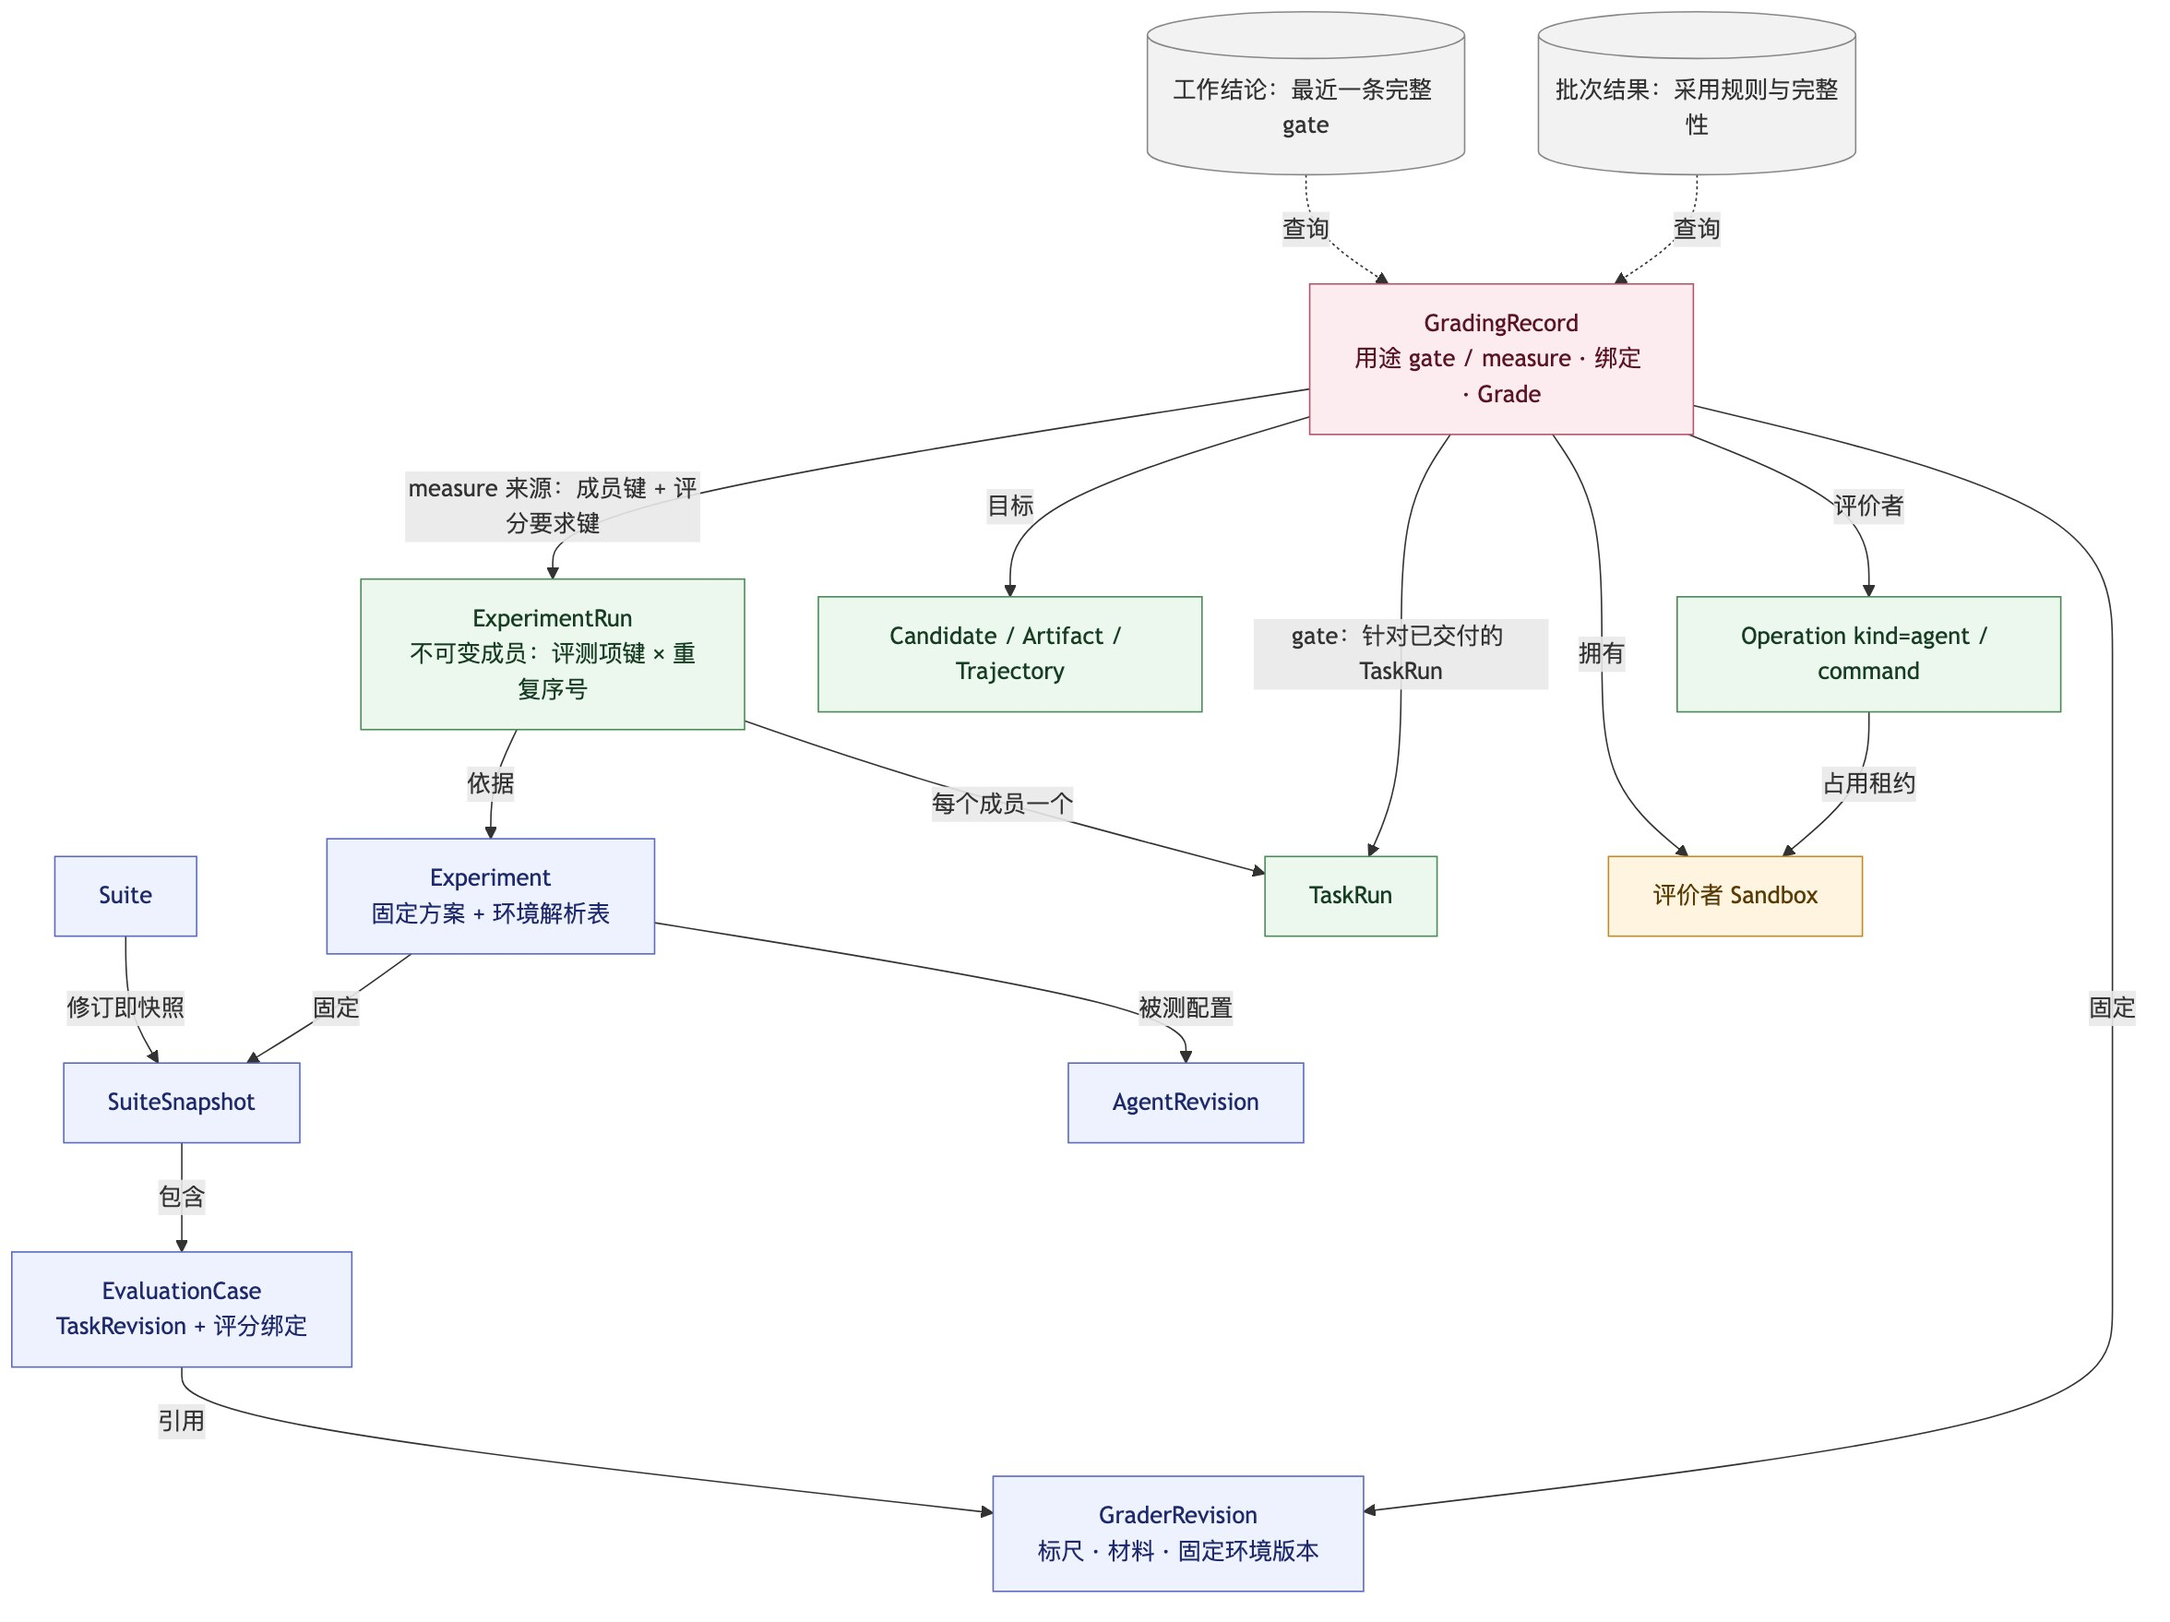
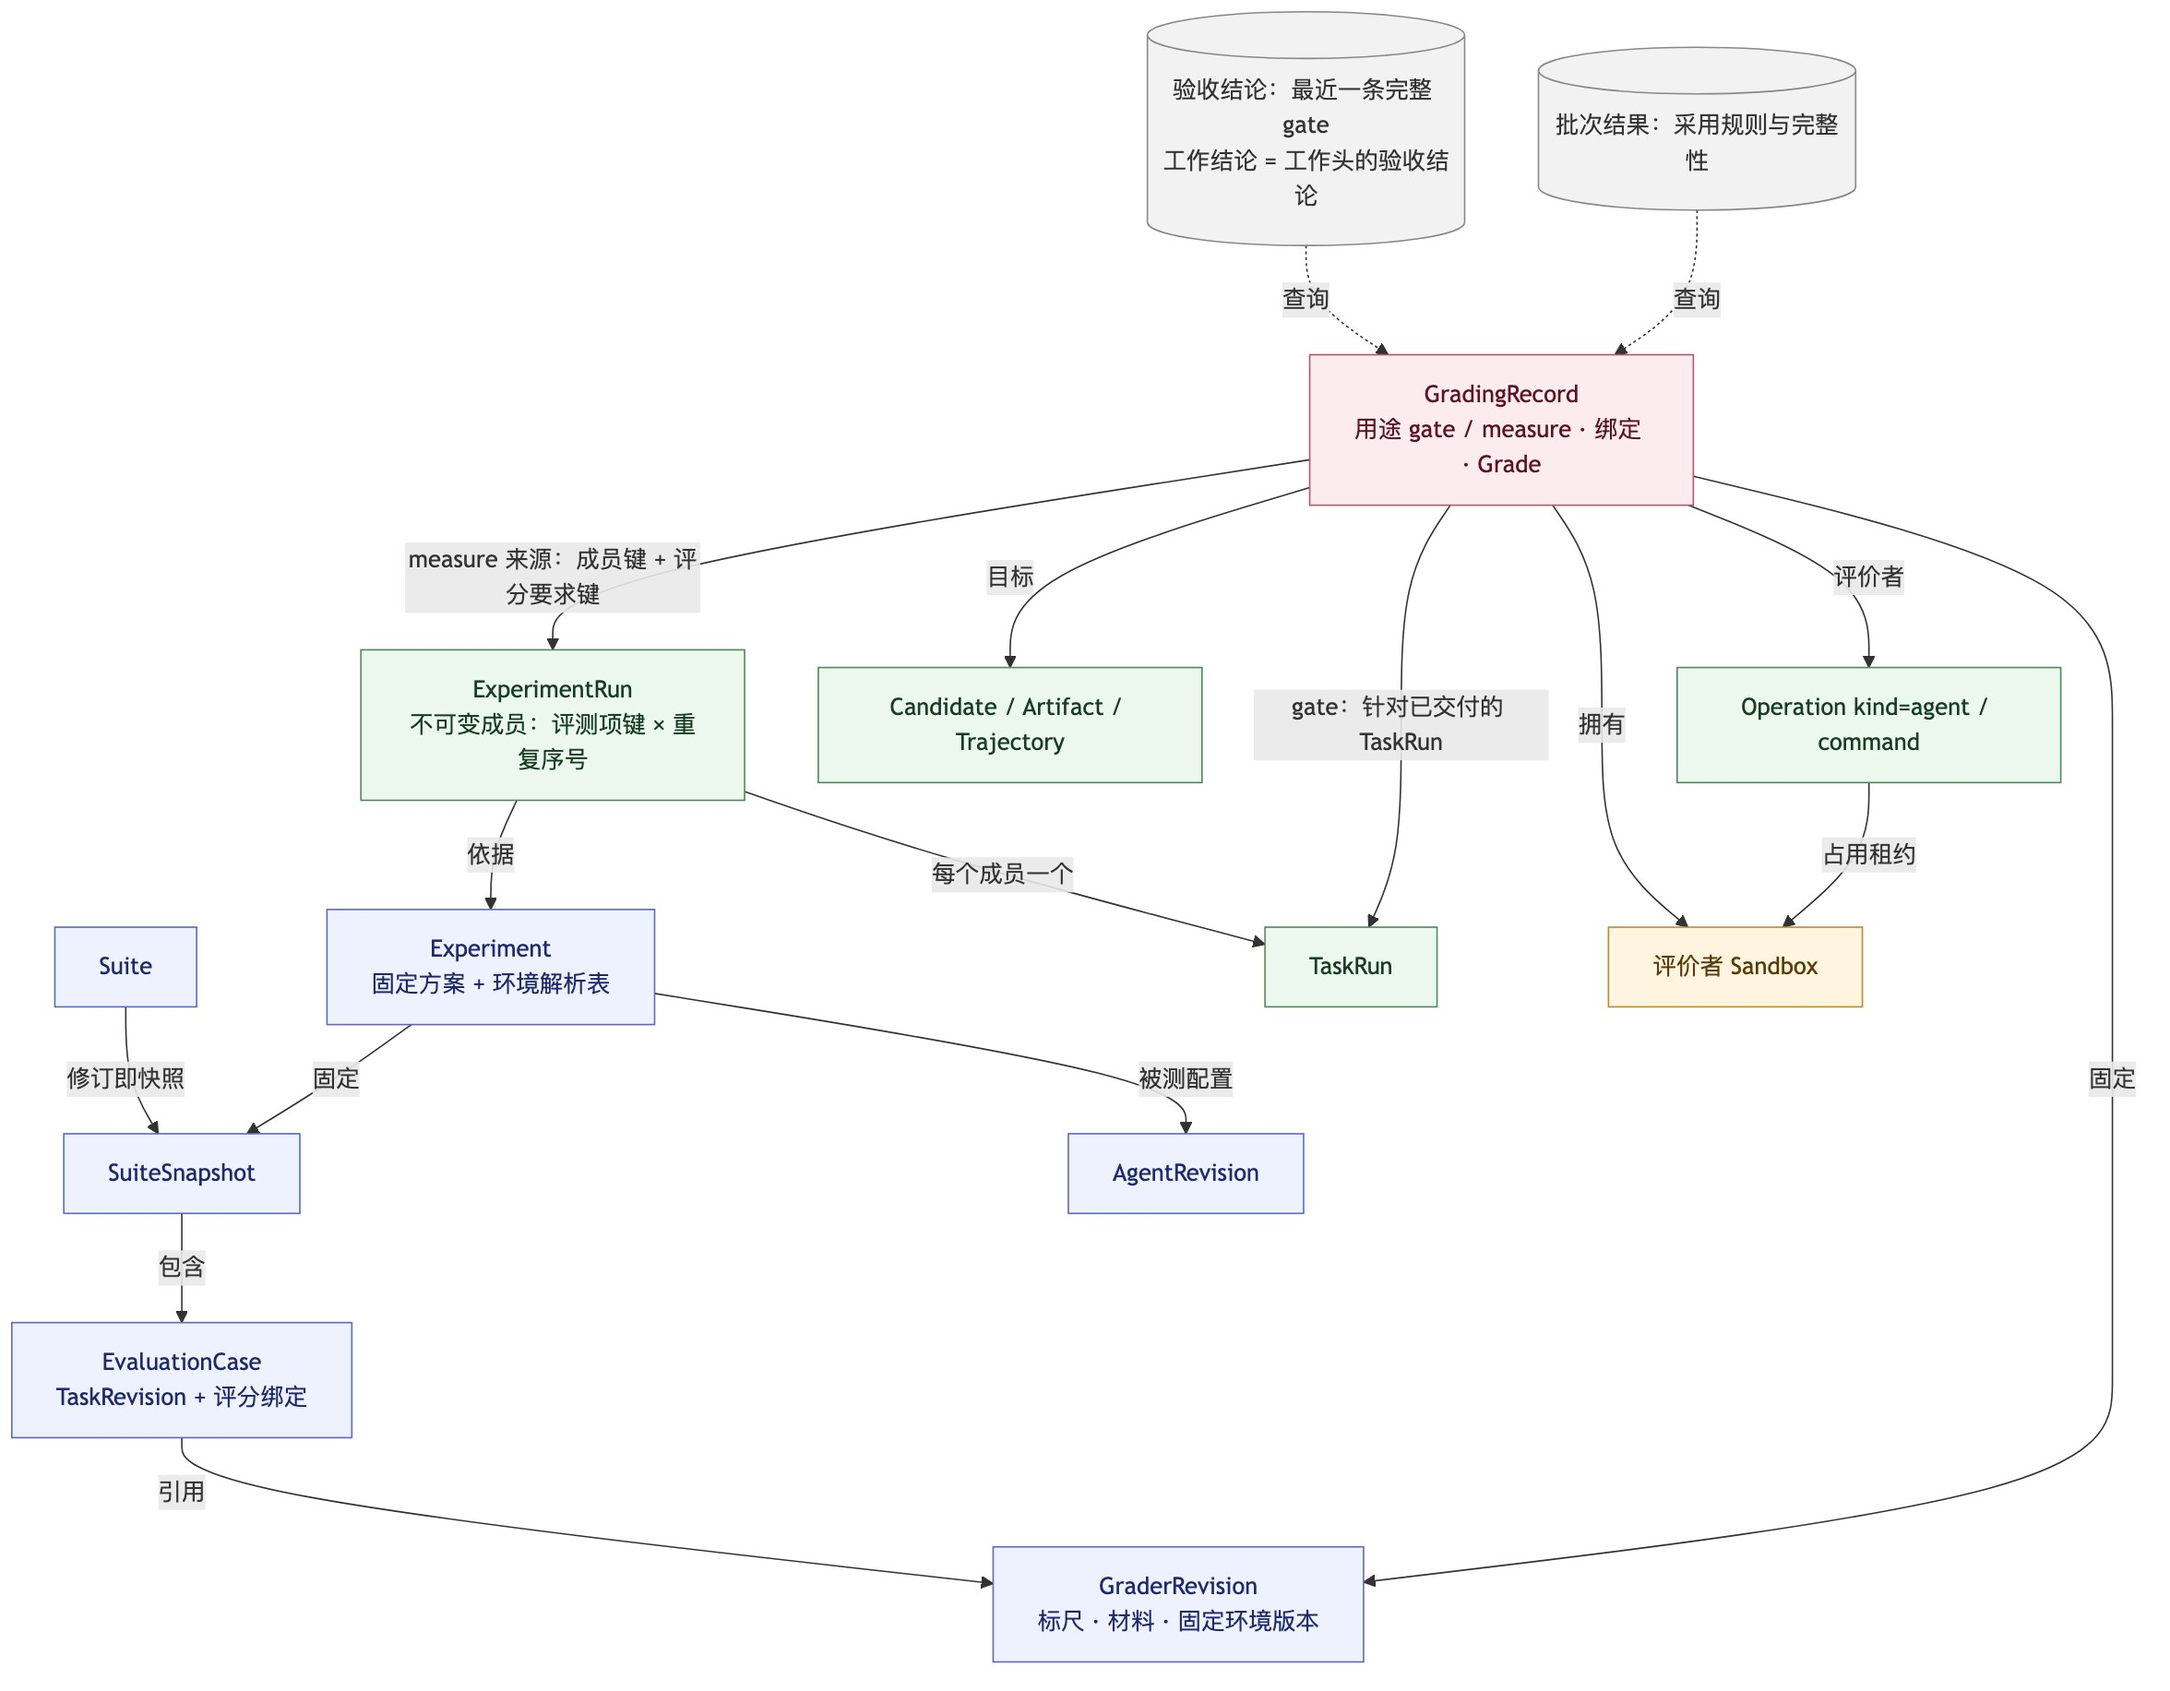
docs: add Work aggregate for the current work head (D142)
Introduce Work as the development line over a refinement tree with an explicit, versioned current head; continuing refines the head and moves it atomically with TaskRun acceptance, heads can be selected explicitly, and the work conclusion is the head's acceptance conclusion.

diff --git a/docs/decisions/0001-unified-agent-evaluation.md b/docs/decisions/0001-unified-agent-evaluation.md
@@ -1,11 +1,11 @@
 # 通用 Agent 评测：开发共识与实施依据
 
-- 日期：2026-10-31；最近更新：2026-11-02（D129–D141 目标模型 R2 已确认）。
+- 日期：2026-10-31；最近更新：2026-11-02（D129–D142 目标模型 R2 已确认）。
 - 决策状态：**已接受总体方向；实现尚未完成**。
 - 范围：Grounds CLI 的评测领域模型、Agent 适配、轨迹与产物、并发，以及评测与开发共用的环境治理领域模型和容器执行。
 - 用途：持续维护的开发依据。后续讨论形成的新结论更新本文件；提议、已确认要求与实际完成情况分别记录。
 
-阅读顺序：**先读[目标模型](0001-target-model.md)**，它是 D129–D141 修订后可以单独阅读的当前目标模型（R2）（已确认，待实现）；第 3 节“D128 历史收敛版”只用于查阅旧迁移表与修订前的关系；后续旧图仅作历史说明。深模块边界仍见第 3 节；当前源码状态看第 5 节；第 7 节保留方案比较与此前评审，第 9 节为尚待验证的验收目标。
+阅读顺序：**先读[目标模型](0001-target-model.md)**，它是 D129–D142 修订后可以单独阅读的当前目标模型（R2）（已确认，待实现）；第 3 节“D128 历史收敛版”只用于查阅旧迁移表与修订前的关系；后续旧图仅作历史说明。深模块边界仍见第 3 节；当前源码状态看第 5 节；第 7 节保留方案比较与此前评审，第 9 节为尚待验证的验收目标。
 
 ## 1. 我们要交付什么
 
@@ -1826,6 +1826,8 @@ flowchart LR
 
 #### D141：R2 复审后的补充——已确认，待实现
 
+> **D142 修订：** 表中“工作结论只对单个 TaskRun 定义、整棵树不下结论”改为：单个 TaskRun 的结论称为“验收结论”；一项开发工作的工作结论取其当前工作头的验收结论。
+
 **来源：** 2026-11-02，独立复审 R2（结论 BLOCK）：上一轮 12 条均已解决或因概念删除不再适用，新发现 14 条。助手逐条核对后认为全部成立。这些都是规则补齐，不改变 D140 的业务取舍，按用户既定授权并入[目标模型](0001-target-model.md)。
 
 | 问题 | 处理 |
@@ -1841,6 +1843,27 @@ flowchart LR
 | “评分未开展”没有记录位置 | 由成员 TaskRun 状态、批次取消意图和评分记录的缺失推导，不另写事实 |
 | refine 一个尚未终结的 TaskRun | 受理直接拒绝 |
 | 文档与图示 | 补齐 D7、D41、D43、D49、D50、D52、D60–D66、D70、D84、D85、D94、D117、D125、D127 的 R2 标注；修正“8 个聚合”的计数，以及正文中残留的 EvalRun；应用图增加 command Operation 节点；开发序列图改为由 TaskExecution 查询工作结论；Sandbox 状态图标出预留 |
+
+#### D142：当前工作头（Work 聚合）——已确认，待实现
+
+**来源：** 2026-11-02。D141 规定工作结论只对单个 TaskRun 定义、整棵 refinement 树不下总结论；用户明确希望有“当前工作头”的概念。
+
+**选择：** 新增一个小聚合 **Work**，表示一项开发工作：同一 Task 下的一棵 refinement 树，加一个当前工作头指针，并记录只追加的工作头变更历史。
+
+- **开发入口**：开始工作（创建 Work 和第一个 TaskRun）；继续（refine 当前工作头并移动工作头，默认接手它的 Sandbox）；选择工作头（显式切换到树上任意节点）；结束工作（释放该 Work 下所有保留的 Sandbox）。
+- **工作结论**：取当前工作头的验收结论。工作头只能显式移动，不按创建时间或验收结果自动推断。
+- **并发**：移动工作头时按版本比较并带上期望的旧工作头，两个同时到达的“继续”只有一个成功。TaskRun 受理与工作头更新在同一个账本事务里提交。
+- **范围**：评测样本不属于任何 Work。
+
+**为什么不放在别处：**
+
+| 方案 | 不采用的理由 |
+| --- | --- |
+| 放在 Task 上 | Task 是版本化定义，不应携带运行期的可变状态；同一 Task 也可能有多项并行的开发工作 |
+| 放在根 TaskRun 上 | TaskRun 终结后不可修改，而工作头需要在终结后继续移动 |
+| 按创建时间推断 | D141 复审已指出会得出错误结论，例如较早的交付后来通过了验收 |
+
+**代价：** 运行聚合从 8 个增加到 9 个，增加一条“TaskRun 受理与工作头同事务提交”的规则。现有 Issue 下的 DevRun 序列可以迁移为一个 Work。完整模型见[目标模型](0001-target-model.md)。
 
 ## 3. 核心领域概念
 

diff --git a/docs/README.md b/docs/README.md
@@ -12,7 +12,7 @@ Grounds keeps a versioned ledger of requirements, issues, development runs, cand
 - [Documentation maintenance](documentation.md): responsibilities, reading routes, update triggers, and validation.
 - [Decisions](decisions/README.md): accepted directions, alternatives, and implementation status.
 - [通用 Agent 评测开发共识](decisions/0001-unified-agent-evaluation.md): living development guide for task, Agent, trajectory, artifact, grading, concurrency, and container boundaries; implementation pending.
-- [通用 Agent 执行与评测目标模型（R2）](decisions/0001-target-model.md): accepted consolidated target model (D129–D141) with aggregates, invariants, application modules and flows; read before the full decision record; implementation pending.
+- [通用 Agent 执行与评测目标模型（R2）](decisions/0001-target-model.md): accepted consolidated target model (D129–D142) with aggregates, invariants, application modules and flows; read before the full decision record; implementation pending.
 - [Grounds workflow skill](../plugins/grounds/skills/grounds/SKILL.md): agent workflow entry point.
 - [Agent documentation research](research/agent-documentation.md): historical evidence and proposals; follow the maintenance rules above for adopted policy.
 - [开源 Agent Artifact 源码调研](research/agent-artifact-design.md): pinned-source comparison of ADK, LangChain and smolagents; findings and proposals, not implemented policy.

diff --git a/docs/decisions/README.md b/docs/decisions/README.md
@@ -5,4 +5,4 @@ Decision status describes an accepted direction, not implementation completion. 
 | Decision | Status | Implementation |
 | --- | --- | --- |
 | [0001 — 通用 Agent 评测：开发共识与实施依据](0001-unified-agent-evaluation.md) | Accepted direction; maintained as discussion evolves | Pending; see gaps and acceptance targets in the record |
-| [0001 — 通用 Agent 执行与评测：目标模型（R2）](0001-target-model.md) | Accepted (D129–D141); current target model | Pending |
+| [0001 — 通用 Agent 执行与评测：目标模型（R2）](0001-target-model.md) | Accepted (D129–D142); current target model | Pending |
